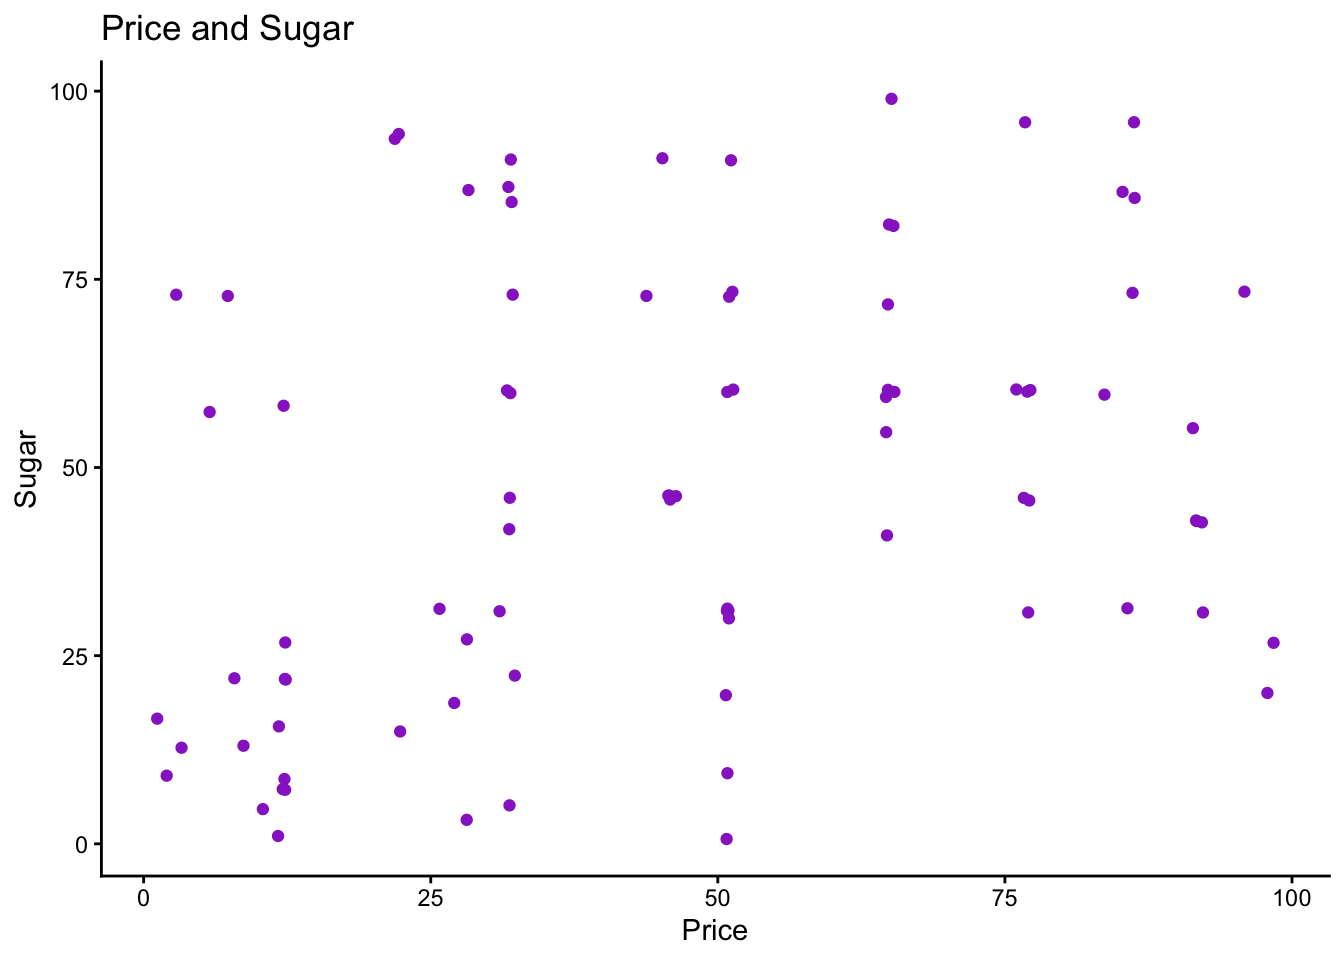
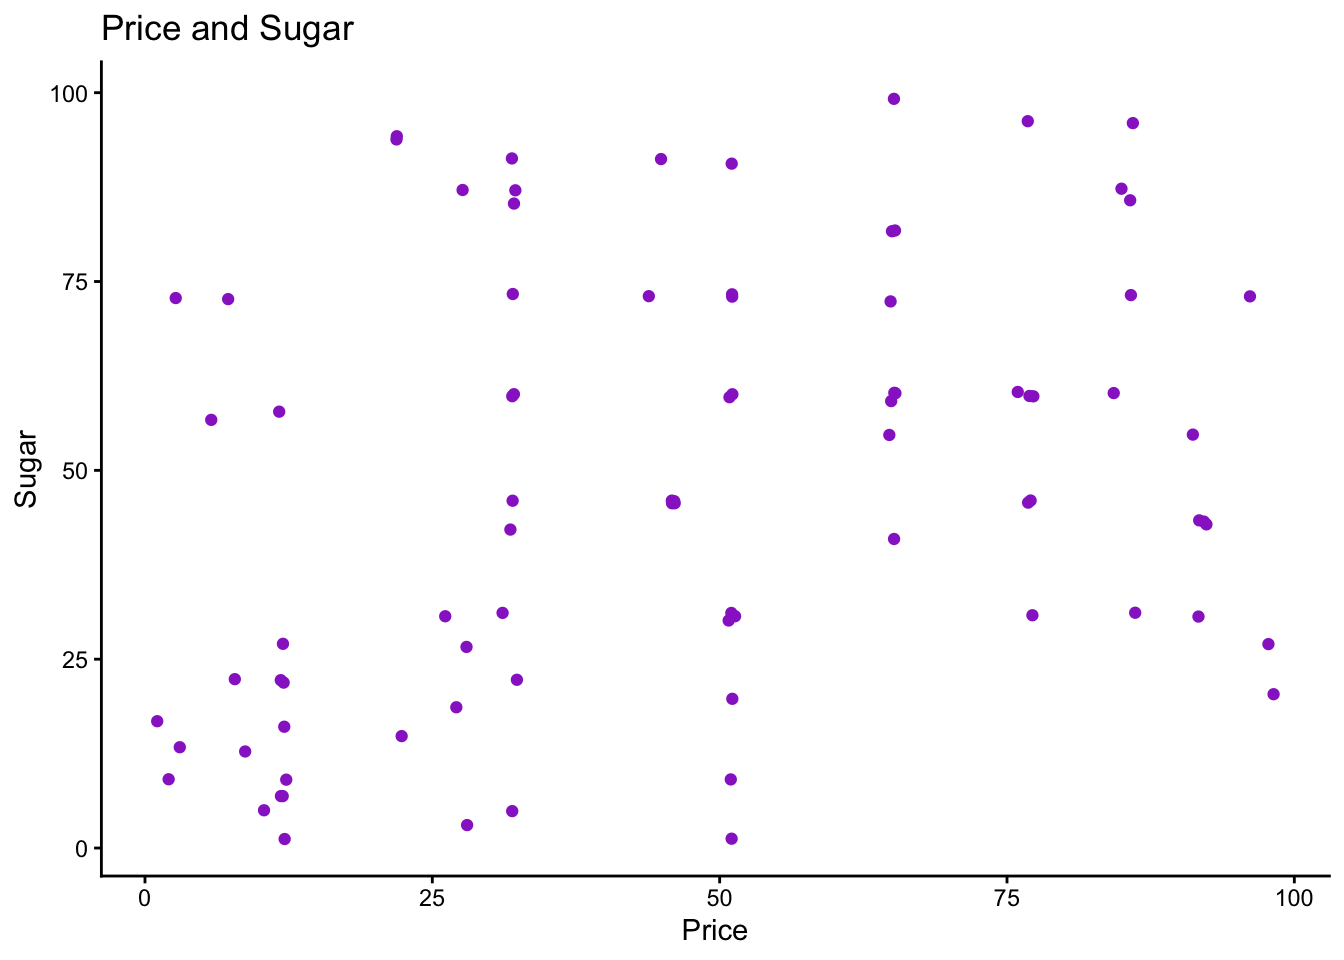
Built site for gh-pages

diff --git a/index.html b/index.html
@@ -1295,7 +1295,7 @@ Attaching package: 'testthat'</code></pre>
 <span id="cb66-5"><a href="#cb66-5" aria-hidden="true" tabindex="-1"></a>  <span class="fu">expect_equal</span>(<span class="fu">average</span>(<span class="fu">c</span>(<span class="sc">-</span><span class="dv">2</span>, <span class="sc">-</span><span class="dv">1</span>, <span class="dv">1</span>, <span class="dv">2</span>)), <span class="dv">0</span>)</span>
 <span id="cb66-6"><a href="#cb66-6" aria-hidden="true" tabindex="-1"></a>})</span></code><button title="Copy to Clipboard" class="code-copy-button"><i class="bi"></i></button></pre></div>
 <div class="cell-output cell-output-stdout">
-<pre><code>Test passed with 4 successes 🎉.</code></pre>
+<pre><code>Test passed with 4 successes 😀.</code></pre>
 </div>
 </div>
 <p>Pour que notre code reste lisible, il faut qu’on divise notre code selon ce qu’on fait.<br>
@@ -1310,14 +1310,14 @@ Donc quand on met tel input, on aura un warning :<br>
 <span id="cb68-5"><a href="#cb68-5" aria-hidden="true" tabindex="-1"></a>  <span class="fu">expect_equal</span>(<span class="fu">average</span>(<span class="fu">c</span>(<span class="sc">-</span><span class="dv">2</span>, <span class="sc">-</span><span class="dv">1</span>, <span class="dv">1</span>, <span class="dv">2</span>)), <span class="dv">0</span>)</span>
 <span id="cb68-6"><a href="#cb68-6" aria-hidden="true" tabindex="-1"></a>})</span></code><button title="Copy to Clipboard" class="code-copy-button"><i class="bi"></i></button></pre></div>
 <div class="cell-output cell-output-stdout">
-<pre><code>Test passed with 4 successes 🎊.</code></pre>
+<pre><code>Test passed with 4 successes 🥳.</code></pre>
 </div>
 <div class="sourceCode cell-code" id="cb70"><pre class="sourceCode r code-with-copy"><code class="sourceCode r"><span id="cb70-1"><a href="#cb70-1" aria-hidden="true" tabindex="-1"></a><span class="fu">test_that</span>(<span class="st">"`average` warns about NAs in input"</span>, {</span>
 <span id="cb70-2"><a href="#cb70-2" aria-hidden="true" tabindex="-1"></a>  <span class="fu">expect_warning</span>(<span class="fu">average</span>(<span class="fu">c</span>(<span class="dv">1</span>, <span class="cn">NA</span>, <span class="dv">3</span>)))</span>
 <span id="cb70-3"><a href="#cb70-3" aria-hidden="true" tabindex="-1"></a>  <span class="fu">expect_warning</span>(<span class="fu">average</span>(<span class="fu">c</span>(<span class="cn">NA</span>, <span class="cn">NA</span>, <span class="cn">NA</span>)))</span>
 <span id="cb70-4"><a href="#cb70-4" aria-hidden="true" tabindex="-1"></a>})</span></code><button title="Copy to Clipboard" class="code-copy-button"><i class="bi"></i></button></pre></div>
 <div class="cell-output cell-output-stdout">
-<pre><code>Test passed with 2 successes 🥳.</code></pre>
+<pre><code>Test passed with 2 successes 🎉.</code></pre>
 </div>
 </div>
 <p>Bon le frérot rajoute encore et toujours des figures de cas à tester, maintenant on en met une entre les deux qu’on a déjà (je les ai pas mises ici par souci de lisibilité) pour utiliser la fonction <code>suppressWarnings</code> pour ignorer les warning et juste tester la valeur obtenue.</p>
@@ -1327,7 +1327,7 @@ Donc quand on met tel input, on aura un warning :<br>
 <span id="cb72-3"><a href="#cb72-3" aria-hidden="true" tabindex="-1"></a>  <span class="fu">expect_equal</span>(<span class="fu">suppressWarnings</span>(<span class="fu">average</span>(<span class="fu">c</span>(<span class="cn">NA</span>, <span class="cn">NA</span>, <span class="cn">NA</span>))), <span class="cn">NA</span>)</span>
 <span id="cb72-4"><a href="#cb72-4" aria-hidden="true" tabindex="-1"></a>})</span></code><button title="Copy to Clipboard" class="code-copy-button"><i class="bi"></i></button></pre></div>
 <div class="cell-output cell-output-stdout">
-<pre><code>Test passed with 2 successes 🎊.</code></pre>
+<pre><code>Test passed with 2 successes 😀.</code></pre>
 </div>
 </div>
 <p>La fonction <code>expect_error</code> permet de dire qu’on s’attend à une erreur si on donne telle valeur, ici on le fait avec des valeurs de type character :</p>
@@ -1337,7 +1337,7 @@ Donc quand on met tel input, on aura un warning :<br>
 <span id="cb74-3"><a href="#cb74-3" aria-hidden="true" tabindex="-1"></a>  <span class="fu">expect_error</span>(<span class="fu">average</span>(<span class="fu">c</span>(<span class="st">"1"</span>, <span class="st">"2"</span>, <span class="st">"3"</span>)))</span>
 <span id="cb74-4"><a href="#cb74-4" aria-hidden="true" tabindex="-1"></a>})</span></code><button title="Copy to Clipboard" class="code-copy-button"><i class="bi"></i></button></pre></div>
 <div class="cell-output cell-output-stdout">
-<pre><code>Test passed with 2 successes 🎊.</code></pre>
+<pre><code>Test passed with 2 successes 😸.</code></pre>
 </div>
 </div>
 </section>
@@ -1440,7 +1440,7 @@ window.document.addEventListener("DOMContentLoaded", function (event) {
   });
     var localhostRegex = new RegExp(/^(?:http|https):\/\/localhost\:?[0-9]*\//);
     var mailtoRegex = new RegExp(/^mailto:/);
-      var filterRegex = new RegExp('/' + window.location.host + '/');
+      var filterRegex = new RegExp("https:\/\/neoyon\.github\.io\/cs50r\/");
     var isInternal = (href) => {
         return filterRegex.test(href) || localhostRegex.test(href) || mailtoRegex.test(href);
     }

diff --git a/about.html b/about.html
@@ -218,7 +218,7 @@ window.document.addEventListener("DOMContentLoaded", function (event) {
   });
     var localhostRegex = new RegExp(/^(?:http|https):\/\/localhost\:?[0-9]*\//);
     var mailtoRegex = new RegExp(/^mailto:/);
-      var filterRegex = new RegExp('/' + window.location.host + '/');
+      var filterRegex = new RegExp("https:\/\/neoyon\.github\.io\/cs50r\/");
     var isInternal = (href) => {
         return filterRegex.test(href) || localhostRegex.test(href) || mailtoRegex.test(href);
     }
